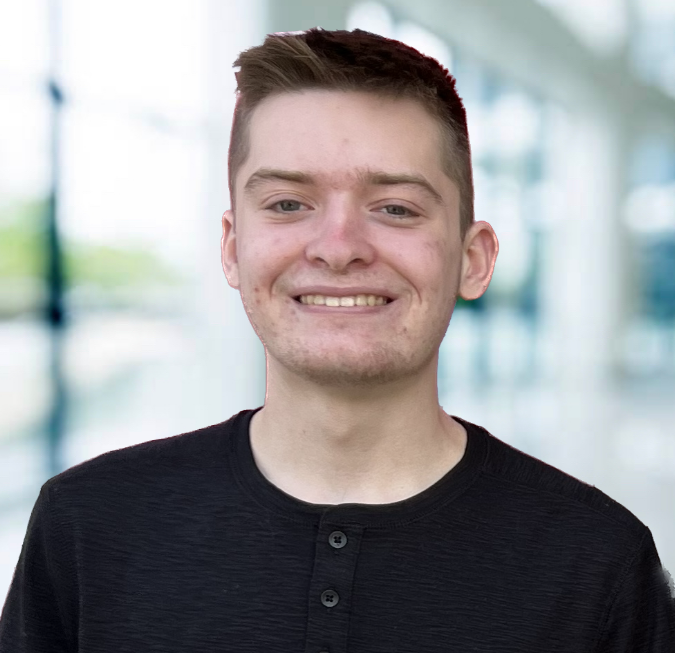
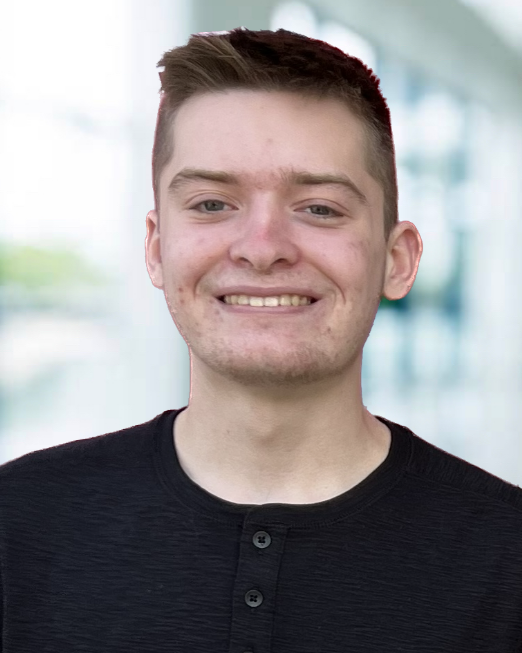
Finish home page and about us page

diff --git a/src/components/Home.js b/src/components/Home.js
@@ -37,6 +37,15 @@ export default function Home(prop) {
   const ref6 = useRef();
   const isVisible6 = useIsVisible(ref6);
 
+  const ref7 = useRef();
+  const isVisible7 = useIsVisible(ref7);
+
+  const ref8 = useRef();
+  const isVisible8 = useIsVisible(ref8);
+
+  const ref9 = useRef();
+  const isVisible9 = useIsVisible(ref9);
+
 return (
 <section id="About">
       <div className="container mx-auto flex px-10 py-20 md:flex-row flex-col items-center">
@@ -115,18 +124,17 @@ return (
           <h1 className="ml-2 text-2xl font-semibold text-highlight">
             Parse
           </h1>
-          
         </div>
         <p className="mx-auto lg:w-full">
           To parse this dataset, we wrote out the datatype, format, and range of each variable. 
           In excel, the correct data format was selected for each column to make it more readable.
         </p>
-        <img 
+          <img 
             className="lg:w-full mt-4 mx-auto outline-light rounded-lg"
             src= {prop.mode ? "/ParseInverted.png" : "/ParseUninverted.png"} 
             alt="Parsed data"
           /> 
-          </div>
+        </div>
         <ArrowNarrowDownIcon  className="text-highlight-dark mx-auto w-10 mt-2"/>
         <div ref={ref3} className = {'transition-opacity ease-in duration-1000 ' + (isVisible3 ? 'opacity-100' : 'opacity-0')}> 
         <div className="flex justify-center mt-6">
@@ -179,7 +187,7 @@ return (
       <div className = "h-40"> </div>
       <div id="Insights" className="blur-lg dark:text-gray-400 text-black dark:bg-back-dark bg-back-light body-font">
       <div className="container px-5 py-10 mx-auto text-center dark:bg-gray-900 bg-back-lightMid lg:px-40 lg:w-5/6 rounded-3xl">
-        <div className="flex flex-col w-full mb-10">
+        <div className="flex flex-col w-full mb-8">
           <ChartBarIcon className="mx-auto inline-block w-10 mb-4 text-highlight-dark fill-current" />
           <h1 className="sm:text-4xl text-3xl font-semibold title-font mb-4 text-highlight">
             Visualizations & Insights
@@ -189,46 +197,147 @@ return (
             relationship is between GPA and numerous factors at Purdue.
           </p>
         </div>
+
+        <hr className="dark:border-highlight-dark border-blue-300"></hr>
+
+        <div ref={ref7} className = {'transition-opacity ease-in duration-1000 ' + (isVisible7 ? 'opacity-100' : 'opacity-0')}> 
+          <div className="flex flex-row my-8">
+            <div className="my-auto text-left mr-6 lg:w-1/3 w-full">
+              This scatterplot compares the GPA of courses with the number of sections they have. Additionally, each course datapoint 
+              is labelled by its department. Most courses have fewer sections, with a particularly dense cluster around 3.25 GPA and e^(1.4) = 4 sections. <br/>
+              Both Science and Liberal Arts have clusters of courses with a high number of sections, however, Science's cluster has a lower GPA than the Liberal Arts cluster.
+            </div>
+            <img className="outline-main rounded-3xl w-4/5 my-auto h-full"
+              src= {prop.mode ? "./visualizations/scatterplot_inverted.png" : "./visualizations/scatterplot.png"}
+              alt="test"
+            />
+          </div>
+        </div>
+
+        <hr className="dark:border-highlight-dark border-blue-400"></hr>
+        
         <div ref={ref5} className = {'transition-opacity ease-in duration-1000 ' + (isVisible5 ? 'opacity-100' : 'opacity-0')}> 
-        <div className="flex flex-row mb-12 ">
+        <div className="flex flex-row my-8">
           <img 
-            className="outline-main w-full rounded-2xl"
+            className="outline-main w-full h-full my-auto rounded-2xl"
             src="/visualizations/lowest_cour.png"
             alt="Lowest 10 courses by GPA"
           />
 
-        <div className="lg:w-2/3 w-full ml-6 my-auto overflow-hidden text-left">
+        <div className="lg:w-2/3 w-full ml-6 my-auto text-left">
           This bar chart shows how out of all courses at Purdue with more than 100 sections, 
           Math has 7 of the lowest 10. This includes Calculus 1 - 3, as well as linear algebra, differential equations,
           and Plane Analytic Geometry & Calculus 1 & 2, which had the two lowest average GPAs out of all observations by a relatively large margin.
         </div>
         </div>
-        
+
+        <hr className="dark:border-highlight-dark border-blue-400"></hr>
+
+        <div ref={ref8} className = {'transition-opacity ease-in duration-1000 ' + (isVisible8 ? 'opacity-100' : 'opacity-0')}> 
+          <div className="flex flex-row my-8">
+          <div className="lg:w-2/3 w-full mr-6 my-auto text-left">
+            This line graph shows the average GPA of math courses across all terms and years in our dataset. We can see usually 
+            the average math GPA is slightly higher in fall than the other two terms. However, we can see an extreme peak in 
+            Spring 2020. The average in fall and summer is also higher than other years. This may be related to the Covid pandemic, 
+            which was at its peak that semester.
+          </div>
+            <img className="outline-main rounded-3xl lg:w-4/5 w-full h-full my-auto"
+                src= {prop.mode ? "./visualizations/gpatime_inverted.png" : "./visualizations/gpatime.png"}
+                alt="test"
+              />
+          </div>
         </div>
+        </div>
+
+        <hr className="dark:border-highlight-dark border-blue-400"></hr>
+
         <div ref={ref6} className = {'transition-opacity ease-in duration-1000 ' + (isVisible6 ? 'opacity-100' : 'opacity-0')}> 
-        <div className="flex flex-row space-x-2 w-full mx-auto">
+        <div className="flex flex-row space-x-2 w-full mx-auto my-8">
           <img 
-            className="outline-main w-1/2 rounded-2xl mx-2 my-2"
+            className="outline-main w-1/2 rounded-2xl mx-2"
             src="/visualizations/lowest_sub.png"
             alt="Lowest 10 subjects by GPA"
           />
           <img 
-            className="outline-main w-1/2 rounded-2xl my-2"
+            className="outline-main w-1/2 rounded-2xl"
             src="/visualizations/highest_sub.png"
             alt="Highest 10 subjects by GPA"
           />
         </div>
-        <div className="mt-2 lg:w-2/3 mx-auto mb-10">
+        <div className="mt-2 mb-6 lg:w-2/3 mx-auto">
             These bar charts compare the top 10 subjects (with 200 or more sections) with the highest GPA and the bottom 10 subjects with the lowest GPA.
             Math is the subject with the lowest average GPA of 2.56, with a 0.14 gap between it and second place, Band. The two
              outliers with the highest GPA are Pharmacy and Nursing, which each have an average GPA of 3.69 and 3.72, respectively.
              These two subjects are also separated by a relatively large gap of 0.25 from third place, Aviation Technology.
         </div>
         </div>
+
+        <hr className="border-1 dark:border-highlight-dark border-blue-400"></hr>
+        
+        <div ref={ref9} className = {'transition-opacity ease-in duration-1000 ' + (isVisible9 ? 'opacity-100' : 'opacity-0')}> 
+          <p className="text-2xl font-bold dark:text-white text-black mt-8 mb-6">
+                    Analysis of the Lowest and Highest GPA Courses by Professor
+          </p>
+          <div className = " grid grid-cols-2 w-full lg:space-x-2 gap-4">
+                    <div >
+                        <img className="outline-main rounded-3xl"
+                            src="./visualizations/planecalc2.png"
+                            alt="test"
+                        />
+                    </div>
+                    <div >
+                        <img className="outline-main rounded-3xl"
+                            src="./visualizations/transideas.png"
+                            alt="test"
+                        />
+                    </div>
+                    <div >
+                        <img className="outline-main rounded-3xl"
+                            src="./visualizations/planecalc1.png"
+                            alt="test"
+                        />
+                    </div>
+                    <div >
+                        <img className="outline-main rounded-3xl"
+                            src="./visualizations/sciencewriting.png"
+                            alt="test"
+                        />
+                    </div>
+                    <div >
+                        <img className="outline-main rounded-3xl"
+                            src="./visualizations/appliedcalc2.png"
+                            alt="test"
+                        />
+                    </div>
+                    <div >
+                        <img className="outline-main rounded-3xl"
+                            src="./visualizations/organicchem.png"
+                            alt="test"
+                        />
+                    </div>
+          </div>
+          <img className="outline-main rounded-3xl lg:w-1/2 w-3/4 mt-8 mx-auto"
+                            src="./visualizations/range.png"
+                            alt="test"
+                        />
+          <div className="mt-4 mx-auto mb-10">
+            The six bargraphs above display the three highest and three lowest courses at Purdue University
+             based on average GPA. Given the average GPA provided by BoilerGrades, the top three and bottom 
+             three instructors (with the exception of Organic Chem Lab) for each course were found and the 
+             range was assessed. The red charts represent the lowest courses, while the blue charts represent 
+             the highest courses. It is intriguing to note that the bottom three courses are all categorized as 
+             Mathematics courses under the Mathematics department, while the top three courses are non-Mathematics 
+             courses in various departments. It is also intriguing to note that there is a wider range amongst Organic
+              Chem (Highest Average GPA Course) and Plane Analytic Geometry Calculus II (Lowest Average GPA Course) 
+              compared to the distributions of the courses following and preceding the extremas respectively. Based on the
+               graphs, the instructor with the lowest average GPA (1.30) was Egbert, Nicholas R. teaching Plane Analytic 
+               Geometry II, while the highest average GPA (4.0) was achieved by 10 instructors teaching Organic Chem Lab.  
+        </div>
+        </div>
       </div>
       </div>
 
-      <div id="Conclusion" className="container px-5 py-10 mx-auto">
+      <div className="container px-5 py-10 mx-auto">
         <div className="text-center mb-20">
           <img
             className="object-cover object-center rounded h-12 w-12 mx-auto "
@@ -236,15 +345,13 @@ return (
             src="./check.svg"
           />
           <h1 className="sm:text-4xl text-3xl font-semibold title-font text-highlight mb-4">
-            Conclusion
+            Continue Reading
           </h1>
           <p className="text-base leading-relaxed xl:w-2/4 lg:w-3/4 mx-auto dark:text-white text-black">
-            In conclusion, this project isn't actually done yet so this is just a placeholder for 
-            the conclusion we will draw when the rest of this project is finished. Thanks for reading
-            this though!
+            If you would like to get an even more in-depth look at our work, feel free to visit the Write-up tab above.
           </p>
         </div>
-        <div className="h-64">
+        <div className="h-32">
 
         </div>
         

diff --git a/src/components/AboutUs.js b/src/components/AboutUs.js
@@ -4,33 +4,80 @@ export default function AboutUs() {
     return (
     <section id="AboutUs">   
         <div className="container mx-auto flex px-10 py-10 md:flex-row flex-col items-center">
-            <div className="lg:w-full md:w-2/3 lg:pr-24 md:pr-16 flex flex-col  md:text-left mb-16 md:mb-0 items-center text-center">
+            <div className=":w-full lg:pr-24 md:pr-16 flex flex-col  md:text-left mb-16 md:mb-0 items-center text-center">
                 <div className= "dark:bg-gray-800 bg-gray-100 opacity-70 p-4 pb-0 mb-4 rounded-xl w-full text-center">
                     <h1 className="title-font text-5xl mb-4 font-bold text-highlight">
                         About Us
                     </h1>
                 </div>
-                <div className="grid grid-cols-2 my-5">
+                <div className="grid grid-cols-2 my-5 space-x-8 gap-4">
+                <div>
+                    <img
+                className="outline-main rounded-3xl w-1/3 overflow-hidden mx-auto mb-4"
+                alt="Bryce"
+                src="./Bryce.png"
+                />
+                <h2 className="dark:bg-gray-800 bg-gray-100 font-bold opacity-70 px-2 text-2xl py-2 mb-2 rounded-xl lg:w-1/2 w-full text-center mx-auto dark:text-white text-black">
+                    Bryce Bogan
+                </h2>  
+                <h2 className="dark:bg-gray-800 bg-gray-100 opacity-70 py-4 lg:px-6 px-2 mb-4 rounded-xl lg:h-1/3 w-full text-left dark:text-white text-black">
+                <strong>Major:</strong> Applied Statistics <br/>
+                    <strong>Year:</strong> Sophomore <br/>
+                    <strong> Contributions:</strong> Introductory filtering, visualizations in GPA by department, as well as a dashboard of GPA distributions over terms by course
+                    </h2>   
+                    </div>
+
+
                     <div>
                     <img
-                className="outline-main rounded-3xl w-1/2 overflow-hidden mx-auto mb-4"
+                className="outline-main rounded-3xl w-1/3 overflow-hidden mx-auto mb-4 aspect-square"
                 alt="Andrew"
                 src="./Andrew.png"
                 />
-                <h2 className="dark:bg-gray-800 bg-gray-100 font-bold opacity-70 px-2 text-xl py-2 mb-2 rounded-xl w-1/2 text-center mx-auto dark:text-white text-black">
+                <h2 className="dark:bg-gray-800 bg-gray-100 font-bold opacity-70 px-2 text-2xl py-2 mb-2 rounded-xl lg:w-1/2 w-full text-center mx-auto dark:text-white text-black">
                     Andrew Thompson
                 </h2>  
-                <h2 className="dark:bg-gray-800 bg-gray-100 opacity-70 py-4 px-2 pb-0 mb-4 rounded-xl w-full text-center dark:text-white text-black">
-                    In this project, my main contribution was the group’s website, 
-                    which is used to host a project summary including a synthesis of 
-                    our findings, all our visualizations, and information like the team’s 
-                    contributions & background. Besides this, however, I also made some visualizations 
-                    of my own that show some insights into topics that I found particularly interesting, 
-                    as a student at Purdue. 
+                <h2 className="dark:bg-gray-800 bg-gray-100 opacity-70 py-4 lg:px-6 px-2 mb-4 rounded-xl lg:h-1/3 w-full text-left dark:text-white text-black">
+                <strong>Major:</strong> Computer Science and Artificial Intelligence <br/>
+                    <strong>Year:</strong> Junior <br/>
+                    <strong> Contributions:</strong> Website creation and data visualizations covering the GPA differences between subjects
                     </h2>   
                     </div>
-                    
+
+                    <div>
+                    <img
+                className="outline-main rounded-3xl w-1/3 overflow-hidden mx-auto mb-4 aspect-square"
+                alt="Sam"
+                src="./Sam.png"
+                />
+                <h2 className="dark:bg-gray-800 bg-gray-100 font-bold opacity-70 px-2 text-2xl py-2 mb-2 rounded-xl lg:w-1/2 w-full text-center mx-auto dark:text-white text-black">
+                    Sam Lau
+                </h2>  
+                <h2 className="dark:bg-gray-800 bg-gray-100 opacity-70 py-4 lg:px-6 px-2 mb-4 rounded-xl lg:h-1/3 w-full text-left dark:text-white text-black">
+                <strong>Major:</strong> Mathematics and Applied Statistics <br/>
+                    <strong>Year:</strong> Senior <br/>
+                    <strong> Contributions:</strong> Analysis and data visualization creation for the association between grade distribution and professors
+                    </h2>   
+                    </div>
+
+                    <div>
+                    <img
+                className="outline-main rounded-3xl w-1/3 overflow-hidden mx-auto mb-4 aspect-square"
+                alt="Weicheng"
+                src="./Weicheng.png"
+                />
+                <h2 className="dark:bg-gray-800 bg-gray-100 font-bold opacity-70 px-2 text-2xl py-2 mb-2 rounded-xl lg:w-1/2 w-full text-center mx-auto dark:text-white text-black">
+                    Weicheng Wang
+                </h2>  
+                <h2 className="dark:bg-gray-800 bg-gray-100 opacity-70 py-4 lg:px-6 px-2 mb-4 rounded-xl lg:h-1/3 w-full text-left dark:text-white text-black">
+                <strong>Major:</strong> Computer Science and Data Science <br/>
+                    <strong>Year:</strong> Senior <br/>
+                    <strong> Contributions:</strong> Analysis and data visualization creation for the association between grade distribution and semesters
+                    </h2>   
+                    </div>
+
                 </div>
+                    
                     
             </div>
         </div>

diff --git a/src/components/Gallery.js b/src/components/Gallery.js
@@ -20,13 +20,14 @@ export default function Gallery(prop) {
                 </div>
                 
                 <iframe width="1150" height="425" frameborder="0"
+                    title="Course Dashboard"
                     className="mb-12 mt-4 rounded-xl outline-main"
                     src="https://onedrive.live.com/embed?resid=35F145B59F2BEC0E%21161312&authkey=%21ACvmc3Kr4OzJM2I&em=2&AllowTyping=True&ActiveCell='DropdownDashboard'!B2&Item='DropdownDashboard'!A2%3AB22&wdDownloadButton=True&wdInConfigurator=True&wdInConfigurator=True">
                 </iframe>
                 <div className = " grid grid-cols-2 w-full gap-4 px-4 lg:space-x-6">
                     <div >
                         <img className="outline-main rounded-3xl"
-                            src="./visualizations/scatterplot.png"
+                            src={prop.mode ? "./visualizations/scatterplot_inverted.png" : "./visualizations/scatterplot.png"}
                             alt="test"
                         />
                     </div>
